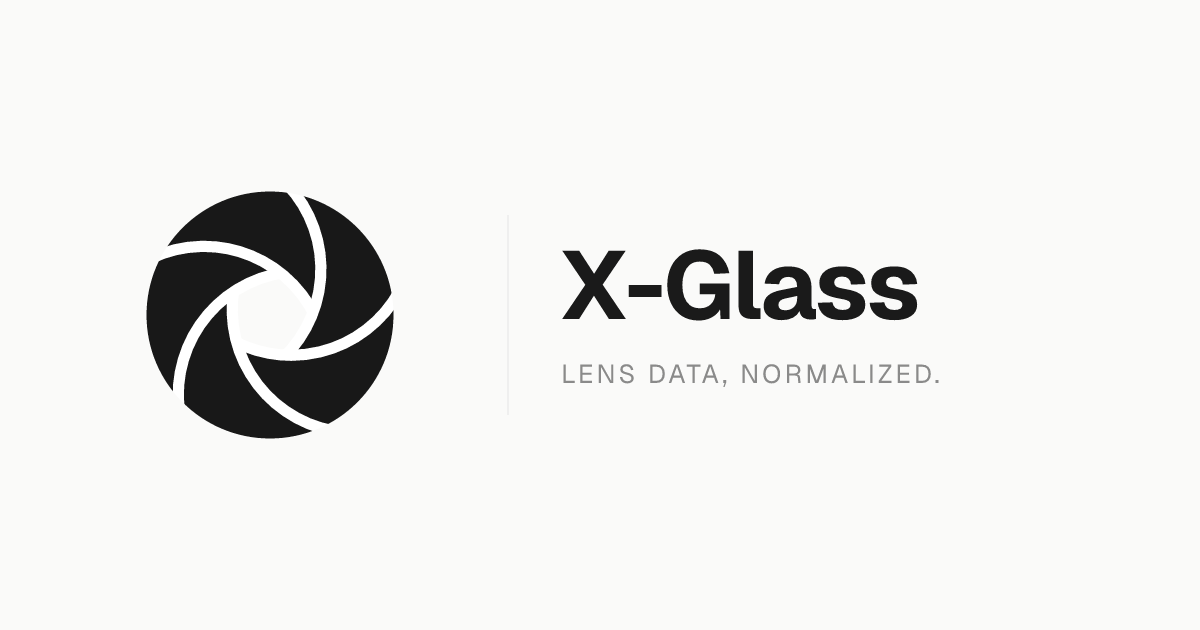
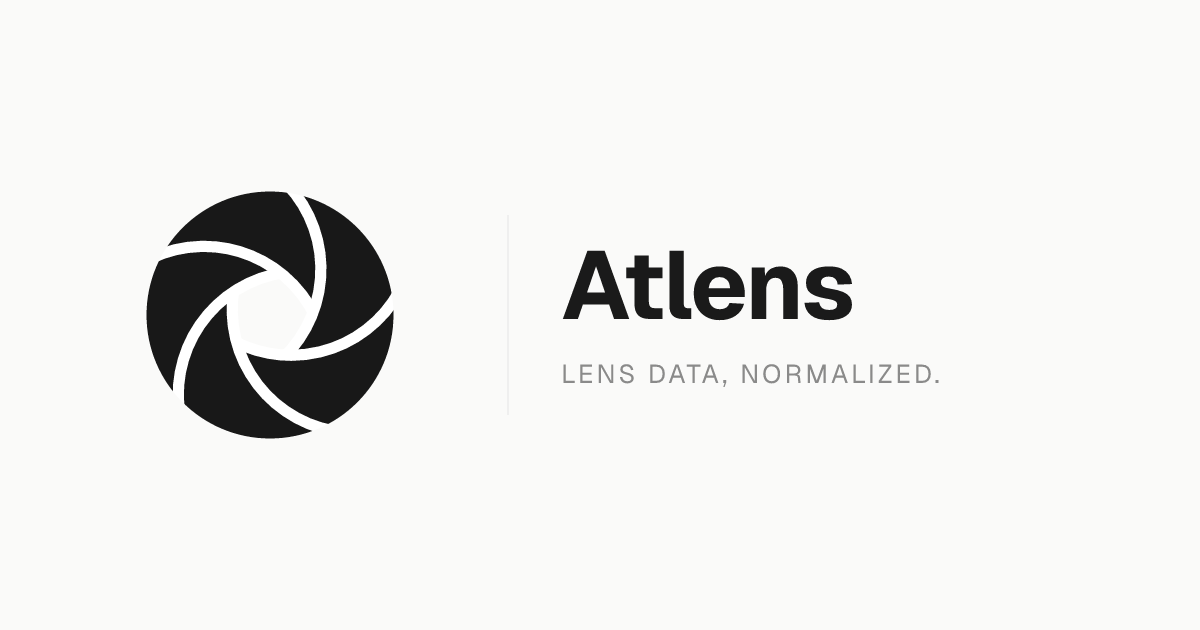
feat(branding): rename X-Glass to Atlens, point to atlens.app (#328)

Changed region(s): [[0.4625, 0.3921, 0.7708, 0.5127]]

diff --git a/src/components/RenameToast.tsx b/src/components/RenameToast.tsx
@@ -1,0 +1,58 @@
+"use client";
+
+import { useEffect } from "react";
+import { toast } from "sonner";
+import { useTranslations } from "next-intl";
+
+// One-time "X-Glass is now Atlens" notice for visitors who arrive via the
+// legacy domain's 301 redirect, so the unfamiliar name/URL doesn't read as a
+// hijack. It self-retires as legacy traffic decays — no hardcoded expiry.
+//
+// Trigger signals, in priority order:
+//   1. `?from=xglass` query param — the legacy domain's redirect rule appends
+//      this, and it survives a 301 (the redirect destination keeps the query
+//      string). This is the reliable signal.
+//   2. Referrer host — best-effort fallback; a 301 usually does NOT expose the
+//      redirecting URL as the referrer, so this only catches direct inbound
+//      links from the old host that haven't been redirected.
+const LEGACY_HOST = "xglass.sentacraft.com";
+const SEEN_KEY = "atlens:rename-notice-seen";
+
+export default function RenameToast() {
+  const t = useTranslations("Rename");
+
+  useEffect(() => {
+    try {
+      if (localStorage.getItem(SEEN_KEY)) {
+        return;
+      }
+    } catch {
+      // localStorage unavailable (private mode / blocked) — skip dedupe and
+      // fall through; the toast simply may show again next visit.
+    }
+
+    const fromLegacyQuery =
+      new URLSearchParams(window.location.search).get("from") === "xglass";
+    let fromLegacyReferrer = false;
+    if (document.referrer) {
+      try {
+        fromLegacyReferrer = new URL(document.referrer).host === LEGACY_HOST;
+      } catch {
+        fromLegacyReferrer = false;
+      }
+    }
+
+    if (!fromLegacyQuery && !fromLegacyReferrer) {
+      return;
+    }
+
+    toast(t("toast"), { duration: 8000 });
+    try {
+      localStorage.setItem(SEEN_KEY, "1");
+    } catch {
+      // Best-effort persistence; ignore write failures.
+    }
+  }, [t]);
+
+  return null;
+}

diff --git a/src/components/SiteJsonLd.tsx b/src/components/SiteJsonLd.tsx
@@ -6,11 +6,17 @@ const ORG_ID = `${SITE.url}/#organization`;
 const SITE_ID = `${SITE.url}/#website`;
 
 // Brand alternate names — including the China-market 图鉴 variant — so Google
-// learns that short queries like "xglass" or "富士镜头图鉴" resolve to this site.
+// learns that short queries like "atlens" or "富士镜头图鉴" resolve to this site.
+// The legacy "X-Glass" spellings are kept so users searching the former name
+// still land here after the rename.
 const BRAND_ALTERNATE_NAMES = [
+  "atlens",
+  "Atlens",
+  "Atlens 富士镜头图鉴",
   "xglass",
   "x glass",
   "X Glass",
+  "X-Glass",
   "富士镜头图鉴",
   "X-Glass 富士镜头图鉴",
 ];
@@ -24,7 +30,7 @@ export default function SiteJsonLd({ locale }: { locale: string }) {
       alternateName: BRAND_ALTERNATE_NAMES,
       url: SITE.url,
       sameAs: [
-        "https://github.com/sentacraft/x-glass",
+        "https://github.com/sentacraft/atlens",
       ],
       logo: {
         "@type": "ImageObject",

diff --git a/src/components/share/ShareButton.tsx b/src/components/share/ShareButton.tsx
@@ -99,8 +99,8 @@ export function ShareButton({ lenses, variant = "default", triggerClassName, ico
   const effectiveSlogan = sloganOverride ?? presetSubtitle ?? "";
 
   const posterLabels: PosterLabels = {
-    appName: "X-Glass",
-    siteUrl: `xglass.sentacraft.com/${locale}`,
+    appName: "Atlens",
+    siteUrl: `atlens.app/${locale}`,
     brandTagline: tImage("brandTagline"),
     cta: lenses.length === 1 ? tImage("ctaSingle") : tImage("cta"),
     comparison: computedPosterTitle,
@@ -189,7 +189,7 @@ export function ShareButton({ lenses, variant = "default", triggerClassName, ico
     try {
       const url = await rasterizePoster(posterRef.current);
       const link = document.createElement("a");
-      link.download = `x-glass_${slugRef.current}.png`;
+      link.download = `atlens_${slugRef.current}.png`;
       link.href = url;
       link.click();
       track("share_action", { method: "poster_download" });
@@ -235,7 +235,7 @@ export function ShareButton({ lenses, variant = "default", triggerClassName, ico
       if (blobUrl) {
         // Share API failed but poster was generated — fall back to download
         const link = document.createElement("a");
-        link.download = `x-glass_${slugRef.current}.png`;
+        link.download = `atlens_${slugRef.current}.png`;
         link.href = blobUrl;
         link.click();
       } else {

diff --git a/src/app/[locale]/lenses/[mount]/compare/page.tsx b/src/app/[locale]/lenses/[mount]/compare/page.tsx
@@ -58,7 +58,7 @@ export async function generateMetadata({
       title,
       description: emptyDescription,
       openGraph: {
-        title: `${title} | X-Glass`,
+        title: `${title} | Atlens`,
         description: emptyDescription,
         images: defaultOgImages(),
       },
@@ -71,7 +71,7 @@ export async function generateMetadata({
       title: emptyTitle,
       description: emptyDescription,
       openGraph: {
-        title: `${emptyTitle} | X-Glass`,
+        title: `${emptyTitle} | Atlens`,
         description: emptyDescription,
         images: defaultOgImages(),
       },
@@ -87,7 +87,7 @@ export async function generateMetadata({
     title,
     description,
     openGraph: {
-      title: `${title} | X-Glass`,
+      title: `${title} | Atlens`,
       description,
       images: defaultOgImages(),
     },

diff --git a/src/components/Nav.tsx b/src/components/Nav.tsx
@@ -133,7 +133,7 @@ export default function Nav() {
             aria-label="Home"
           >
             <Iris config={IRIS_NAV} uid="nav" size={16} />
-            X-Glass
+            Atlens
           </Link>
           {showMountSwitcher && (
             <>
@@ -169,7 +169,7 @@ export default function Nav() {
             {t("feedback")}
           </button>
           <a
-            href="https://github.com/sentacraft/x-glass"
+            href="https://github.com/sentacraft/atlens"
             target="_blank"
             rel="noopener noreferrer"
             className="hidden sm:inline text-zinc-400 dark:text-zinc-500 hover:text-zinc-900 dark:hover:text-zinc-50 transition-colors px-1"
@@ -213,7 +213,7 @@ export default function Nav() {
                     {t("feedback")}
                   </Menu.Item>
                   <Menu.LinkItem
-                    href="https://github.com/sentacraft/x-glass"
+                    href="https://github.com/sentacraft/atlens"
                     target="_blank"
                     rel="noopener noreferrer"
                     className={mobileLinkCls(false)}

diff --git a/src/config/site.ts b/src/config/site.ts
@@ -25,9 +25,9 @@ export interface SiteConfig {
 }
 
 export const SITE: SiteConfig = {
-  url: "https://xglass.sentacraft.com",
-  name: "X-Glass",
-  shortName: "X-Glass",
+  url: "https://atlens.app",
+  name: "Atlens",
+  shortName: "Atlens",
   pwaDescription:
     "Your pocket lens database for Fujifilm cameras — specs normalized, offline-ready, zero noise.",
   themeColor: {

diff --git a/src/components/AboutContent.tsx b/src/components/AboutContent.tsx
@@ -187,6 +187,9 @@ export default async function AboutContent() {
           {t("pageTitle")}
         </h1>
       </div>
+      <p className="-mt-3 text-sm text-zinc-500 dark:text-zinc-400">
+        {t("rebrandNote")}
+      </p>
 
       {/* Table of Contents */}
       <nav className="flex flex-col gap-1">
@@ -350,7 +353,7 @@ export default async function AboutContent() {
 
         {/* GitHub CTA card — closing deep-dive link */}
         <a
-          href="https://github.com/sentacraft/x-glass#data-pipeline"
+          href="https://github.com/sentacraft/atlens#data-pipeline"
           target="_blank"
           rel="noopener noreferrer"
           className="group flex items-start gap-3 rounded-lg border border-zinc-200 bg-white px-4 py-3 transition-colors hover:border-zinc-300 hover:bg-zinc-50 dark:border-zinc-700 dark:bg-zinc-900/40 dark:hover:border-zinc-600 dark:hover:bg-zinc-900"

diff --git a/src/app/[locale]/layout.tsx b/src/app/[locale]/layout.tsx
@@ -21,6 +21,7 @@ import { TESTHOOK_ALLOWED } from "@/lib/testhook";
 import { SITE } from "@/config/site";
 import { SPLASH_DEVICES, splashUrl, splashMedia } from "@/config/splash";
 import AppToaster from "@/components/AppToaster";
+import RenameToast from "@/components/RenameToast";
 import { fontClassName } from "../fonts";
 import "../globals.css";
 
@@ -69,7 +70,7 @@ export async function generateMetadata({
     metadataBase: resolveMetadataBase(),
     title: {
       default: t("seoTitle"),
-      template: "%s | X-Glass",
+      template: "%s | Atlens",
     },
     description: t("seoDescription"),
     verification: {
@@ -173,6 +174,7 @@ export default async function LocaleLayout({
           </CompareProvider>
           </MountPreferenceProvider>
           <AppToaster />
+          <RenameToast />
         </NextIntlClientProvider>
         <RegisterSW />
         <AssetTelemetry />

diff --git a/src/app/manifest.ts b/src/app/manifest.ts
@@ -49,14 +49,14 @@ export default function manifest(): MetadataRoute.Manifest {
         sizes: "1206x2622",
         type: "image/png",
         // No form_factor → treated as mobile/narrow by Chrome.
-        label: "X-Glass home screen",
+        label: "Atlens home screen",
       },
       {
         src: "/screenshots/screenshot-desktop.png",
         sizes: "2400x1854",
         type: "image/png",
         form_factor: "wide",
-        label: "X-Glass lens browser",
+        label: "Atlens lens browser",
       },
     ],
     icons: [

diff --git a/src/components/FeedbackDialog.tsx b/src/components/FeedbackDialog.tsx
@@ -198,10 +198,10 @@ export default function FeedbackDialog({
             <p className="text-xs text-zinc-400 dark:text-zinc-500">
               {t("emailLabel")}{" "}
               <a
-                href="mailto:[email redacted]"
+                href="mailto:[email redacted]"
                 className="underline underline-offset-2 hover:text-zinc-600 dark:hover:text-zinc-300 transition-colors"
               >
-                [email redacted]
+                [email redacted]
               </a>
             </p>
           )}

diff --git a/scripts/gen-icons.tsx b/scripts/gen-icons.tsx
@@ -210,7 +210,7 @@ function generateOgSvg(): string {
   <rect width="${canvasW}" height="${canvasH}" fill="#FAFAF9"/>
   ${irisSvg}
   <line x1="${dividerX}" y1="${dividerY1}" x2="${dividerX}" y2="${dividerY2}" stroke="#E5E5E5" stroke-width="1"/>
-  <text x="${textX}" y="${titleY}" font-family="Geist" font-weight="700" font-size="${titleSize}" fill="#1A1A1A" letter-spacing="${titleLS}">X-Glass</text>
+  <text x="${textX}" y="${titleY}" font-family="Geist" font-weight="700" font-size="${titleSize}" fill="#1A1A1A" letter-spacing="${titleLS}">Atlens</text>
   <text x="${textX}" y="${subtitleY}" font-family="Geist" font-weight="400" font-size="${subtitleSize}" fill="#8A8A8A" letter-spacing="${subtitleLS}">LENS DATA, NORMALIZED.</text>
 </svg>`;
 }

diff --git a/src/app/[locale]/about/page.tsx b/src/app/[locale]/about/page.tsx
@@ -19,7 +19,7 @@ export async function generateMetadata({
     title,
     description,
     openGraph: {
-      title: `${title} | X-Glass`,
+      title: `${title} | Atlens`,
       description,
       images: defaultOgImages(),
     },